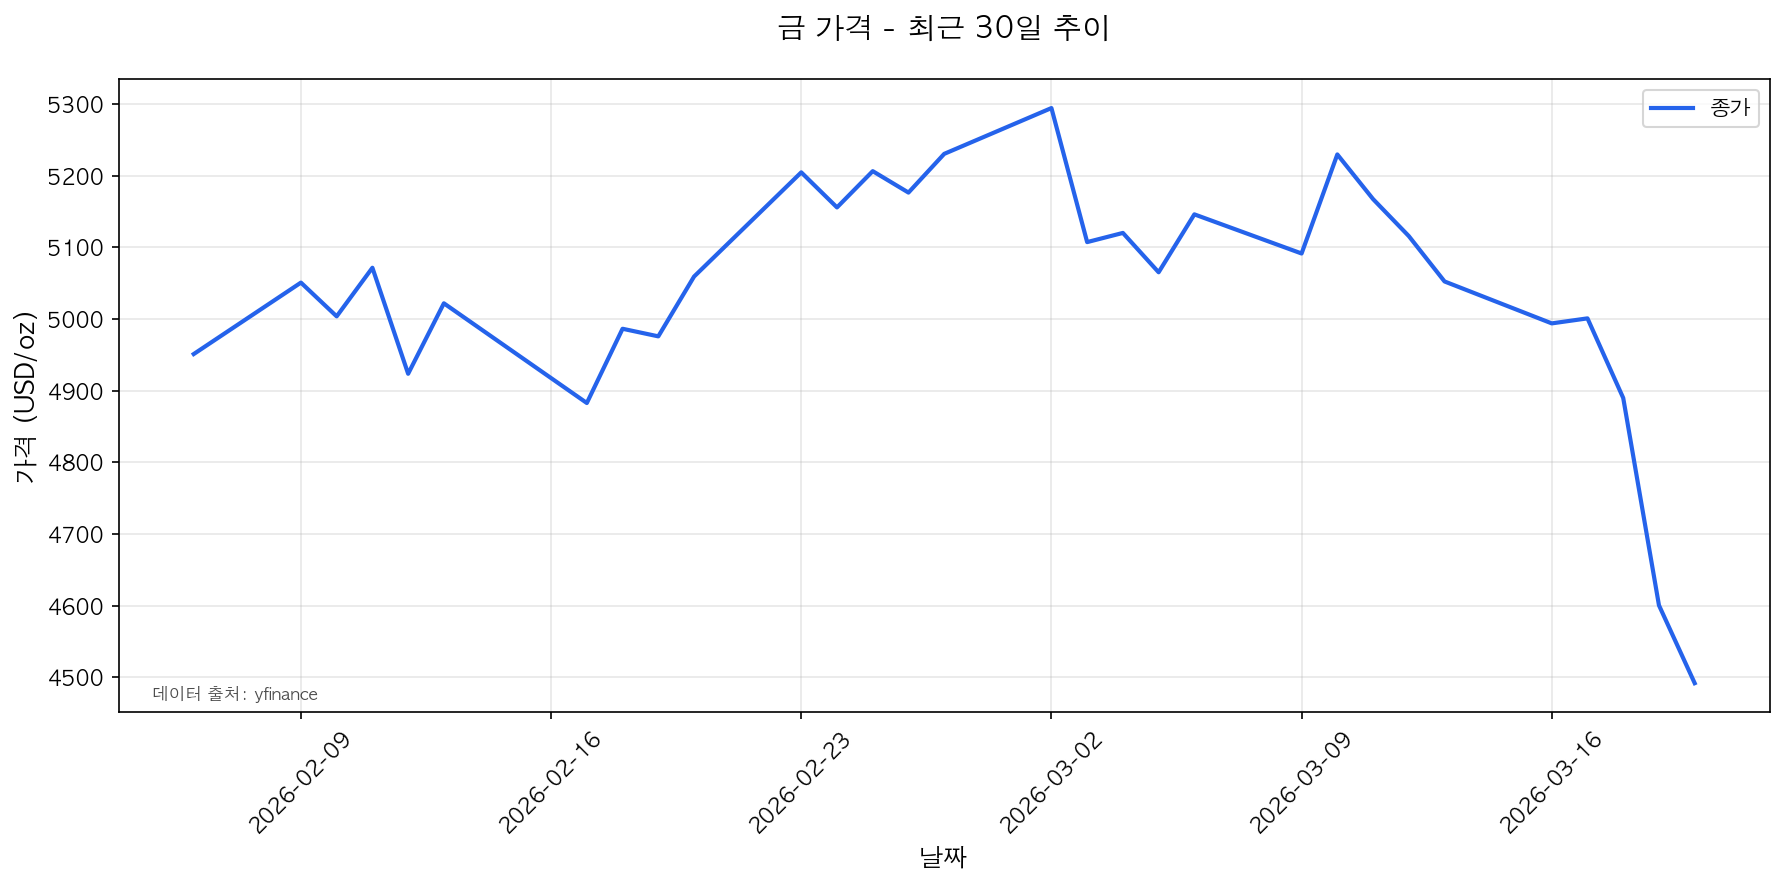
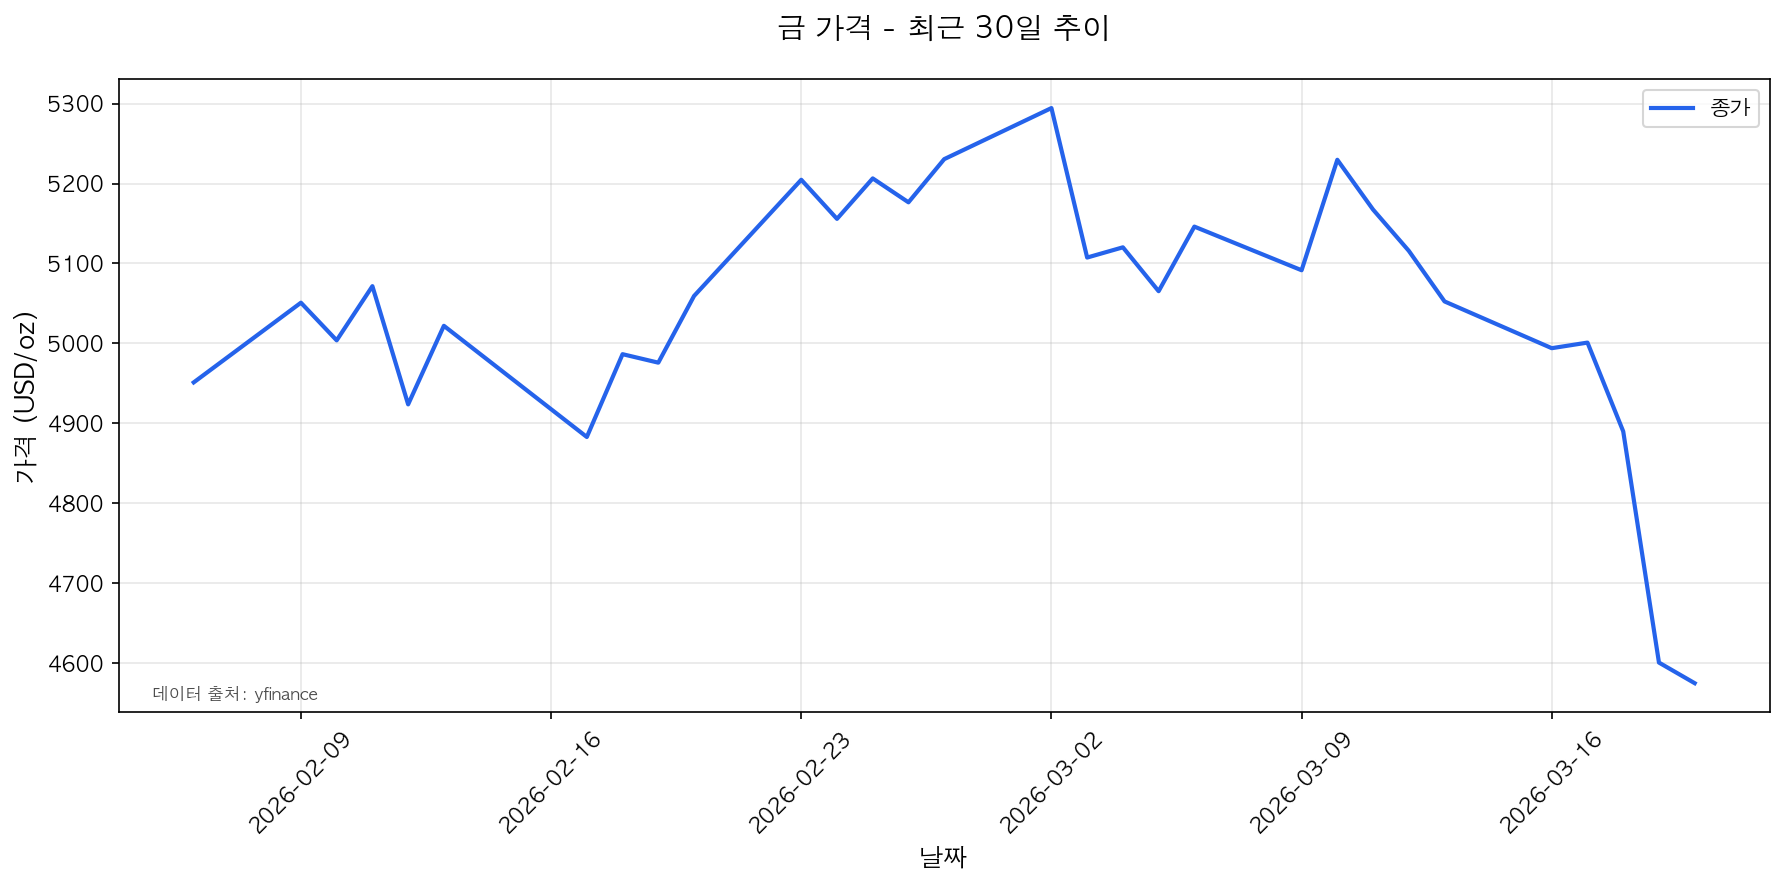
Add 2026-03-21 economic trends analysis post

diff --git a/_posts/2026-03-21-economic-trends-analysis.md b/_posts/2026-03-21-economic-trends-analysis.md
@@ -1,7 +1,7 @@
 ---
 layout: post
 title: "2026년 03월 21일 글로벌 경제 동향 분석: 금리 정책과 시장 트렌드"
-date: 2026-03-21 12:00:42 +0900
+date: 2026-03-21 18:00:45 +0900
 categories: [economy, global-finance]
 tags: [경제, 연준, 금리, 인플레이션, 주식, 금융, 금 가격, 원유, KOSPI, S&P 500]
 description: "2026년 03월 21일 글로벌 및 한국 경제 동향 분석과 주요 지수 트렌드"
@@ -22,10 +22,10 @@ image: /assets/images/2026-03-21/gold_price_chart.png
 
 *그림 1: 최근 30일간 금 가격 추이 (데이터 출처: yfinance)*
 
-금 가격은 최근 30일간 **4951.2$**에서 **4492.0$**로 **-9.27%** 하락했습니다.
+금 가격은 최근 30일간 **4951.2$**에서 **4574.9$**로 **-7.60%** 하락했습니다.
 
 - 기간 중 최고가: **5294.4$** (2026-03-02)
-- 기간 중 최저가: **4492.0$** (2026-03-20)
+- 기간 중 최저가: **4574.9$** (2026-03-20)
 
 금은 전통적으로 인플레이션 헤지 수단으로 활용되며, 최근 경제 불확실성이 높아짐에 따라 안전자산으로서의 선호도가 변화하고 있습니다.
 
@@ -67,7 +67,7 @@ KOSPI는 글로벌 시장 동향, 반도체 등 수출 주도 기업의 실적, 
 
 *그림 4: 최근 30일간 원유 가격 추이 (데이터 출처: yfinance)*
 
-WTI 원유 가격은 최근 30일간 **63.55$**에서 **98.09$**로 **54.35%** 상승했습니다.
+WTI 원유 가격은 최근 30일간 **63.55$**에서 **98.23$**로 **54.57%** 상승했습니다.
 
 - 기간 중 최고가: **98.71$** (2026-03-13)
 - 기간 중 최저가: **62.33$** (2026-02-17)
